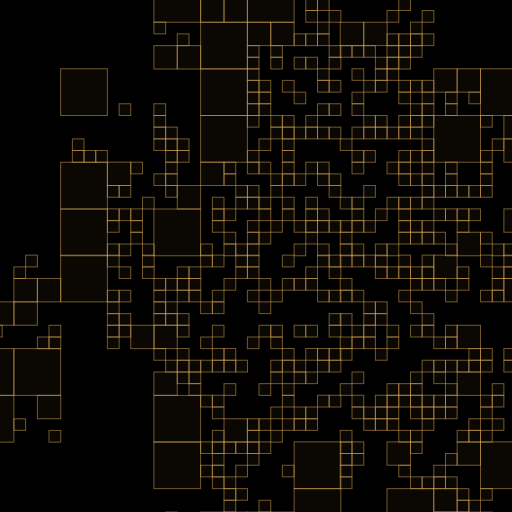
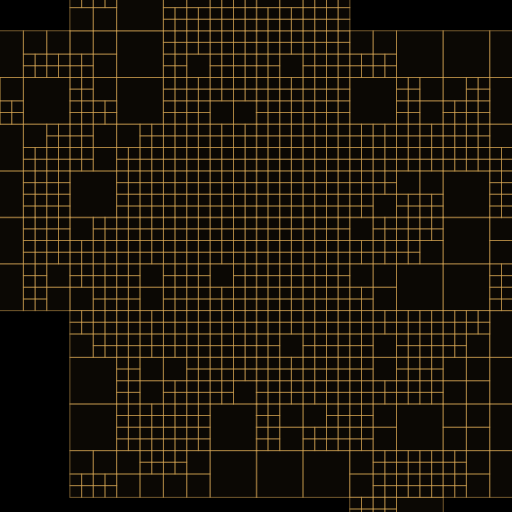
I am not sure that merging is working correctly

diff --git a/lib/merge-street-blocks.ts b/lib/merge-street-blocks.ts
@@ -41,14 +41,15 @@ function mergeStreetBlocks(opts: IGenerateCityOpts, streetGrid: GeoJSON.FeatureC
             }
 
             const shouldMerge = pRNG() > opts.streetGrid.mergeStreetBlocks.mergeThreshold,
-                newlyMergedBlock = shouldMerge ?
-                    [turfMerge(turfFeatureCollection([considerMerging, intersectingBlock]))] :
-                    [];
+                mergedBlock = turfMerge(turfFeatureCollection([considerMerging, intersectingBlock])),
+                visitedBlock = shouldMerge ? mergedBlock : considerMerging;
 
-            logger.debug({intersectingBlock, considerMerging}, 'Merging blocks');
+            mergedBlock.properties.merged = true;
+
+            logger.debug({intersectingBlock, considerMerging}, 'Considering merging blocks');
 
             return mergeStreetBlocksRec(
-                alreadyVisited.concat(newlyMergedBlock),
+                alreadyVisited.concat([visitedBlock]),
                 removeDeep(toVisitRest, intersectingBlock)
             );
         }

diff --git a/index.ts b/index.ts
@@ -84,7 +84,7 @@ function iberville(rawOpts: ICreateCityOpts): Q.IPromise<void> {
                     // Controls how often a merge occurs.
                     // 0 = always merge; 1 = never merge.
                     // Range: [0, 1]
-                    mergeThreshold: .5
+                    mergeThreshold: .2
                 }
             },
             removeIntersectingElements: true,
